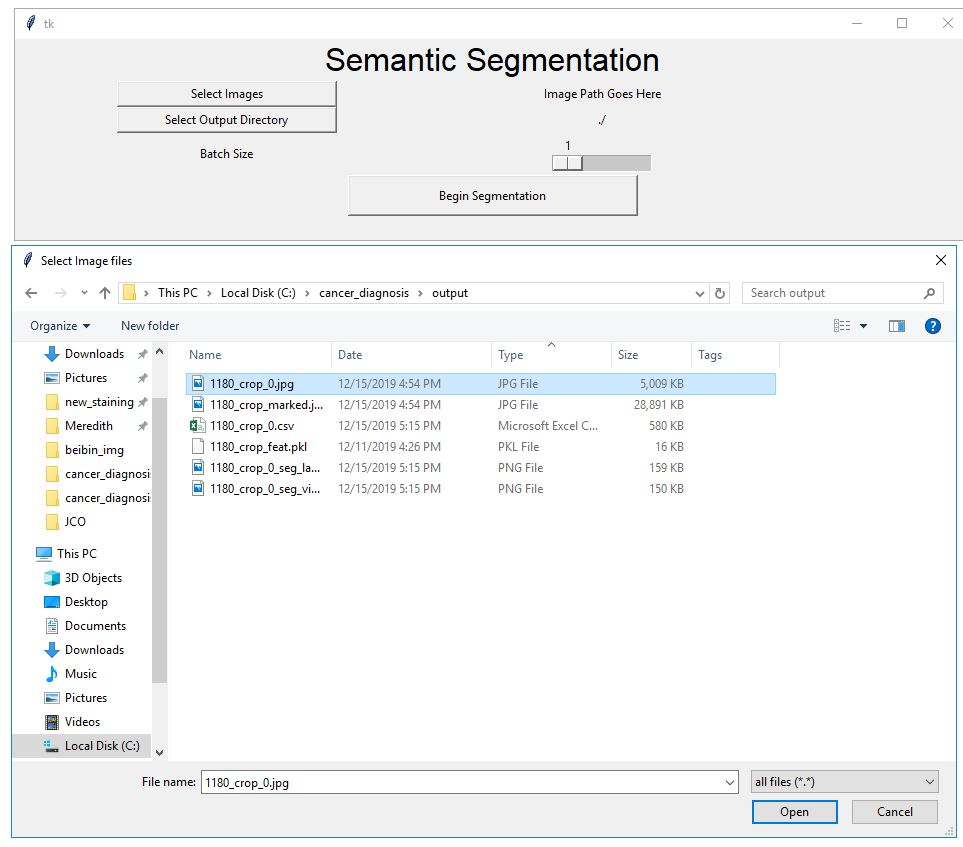
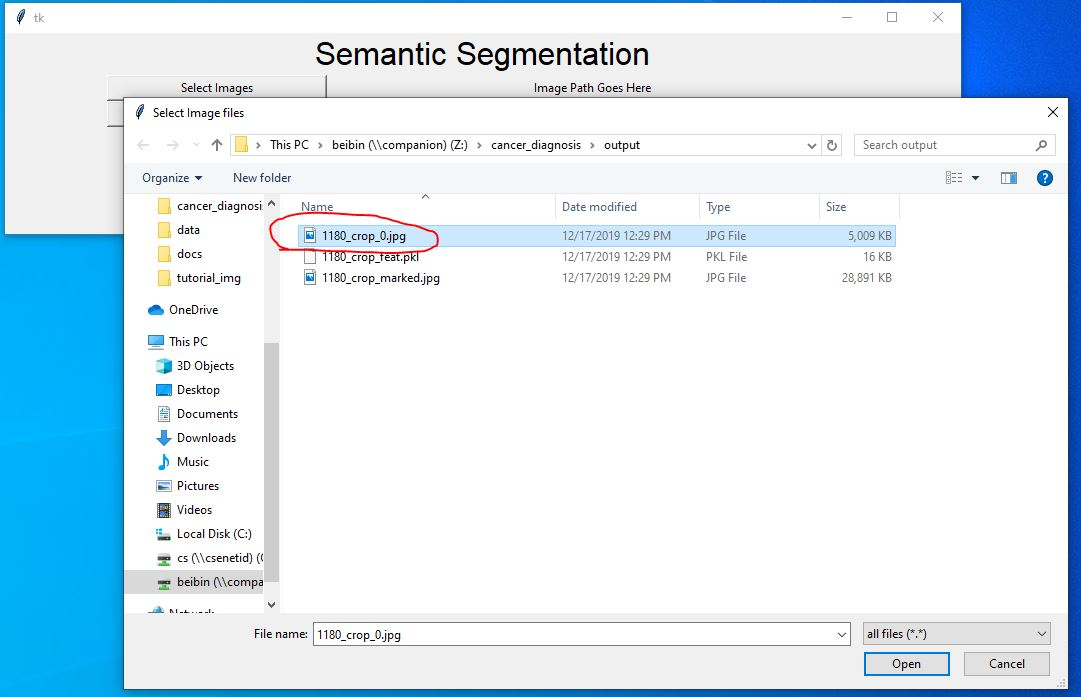
grammar and screenshot updates for tutorial

diff --git a/ROISegmentation.py b/ROISegmentation.py
@@ -82,7 +82,7 @@ out_path_button = tk.Button(window, text="Select Output Directory",
 out_path_button.grid(row=3, column=0)
 
 out_path_var = tk.StringVar()
-out_path_var.set("./")
+out_path_var.set("output/")
 out_path_label = tk.Label(window, textvariable=out_path_var)
 out_path_label.grid(row=3, column=1)
 

diff --git a/README.md b/README.md
@@ -74,7 +74,7 @@ Note, you should download and install this tool first before reading this tutori
 This is an example of how to use ROIWindowClassifier to detect diagnostically relevant regions of interest in breast biopsy whole slide images.  
 
 
-Double clicking on the `1_ROI.bat` file, as shown below.
+Double click the `1_ROI.bat` file, as shown below.
 
 <img src="docs/tutorial_img/roi_bat.JPG" style="zoom:70%;" />
 
@@ -121,7 +121,7 @@ The files are:
 After you have the resultant ROI image from Step 1, we can now move to ROI segmentations. The following figures illustrate how to use this tool to get segmentation for ROIs. The segmentation results will be used as features for diagnosis prediction. 
 
 
-Double clicking on the `2_Semantic_Segmentation.bat` file, as shown below.
+Double click the `2_Semantic_Segmentation.bat` file, as shown below.
 
 
 <img src="docs/tutorial_img/seg_bat.JPG" style="zoom:70%;" />
@@ -133,6 +133,8 @@ Then you will see the following interface where you can select the model, ROI im
 <br><br>
 
 You should choose one or more ROI images at a time as shown below. Hold the "Control" key if you want to select multiple files, which is the standard multi-file selection in Windows OS. 
+In this example, you can select the "1180_crop_0.jpg" image.
+
 Similarly, you can choose the desired output folder by clicking the "Select Output Directory" button and choose a folder.
 
 <img src="docs/tutorial_img/ynet_page2.JPG" width="70%" align="middle"/>
@@ -197,7 +199,7 @@ The ROI finder (in Step 1 above) usually selects more than one ROI for each subj
 
 
 
-Double clicking on the `3_Diagnosis.bat` file, as shown below.
+Double click the `3_Diagnosis.bat` file, as shown below.
 <img src="docs/tutorial_img/dx_bat.JPG" style="zoom:70%;" />
 
 

diff --git a/docs/tutorial.md b/docs/tutorial.md
@@ -7,7 +7,7 @@ Note, you should download and install this tool first before reading this tutori
 This is an example of how to use ROIWindowClassifier to detect diagnostically relevant regions of interest in breast biopsy whole slide images.  
 
 
-Double clicking on the `1_ROI.bat` file, as shown below.
+Double click the `1_ROI.bat` file, as shown below.
 
 <img src="tutorial_img/roi_bat.JPG" style="zoom:70%;" />
 
@@ -54,7 +54,7 @@ The files are:
 After you have the resultant ROI image from Step 1, we can now move to ROI segmentations. The following figures illustrate how to use this tool to get segmentation for ROIs. The segmentation results will be used as features for diagnosis prediction. 
 
 
-Double clicking on the `2_Semantic_Segmentation.bat` file, as shown below.
+Double click the `2_Semantic_Segmentation.bat` file, as shown below.
 
 
 <img src="tutorial_img/seg_bat.JPG" style="zoom:70%;" />
@@ -66,6 +66,8 @@ Then you will see the following interface where you can select the model, ROI im
 <br><br>
 
 You should choose one or more ROI images at a time as shown below. Hold the "Control" key if you want to select multiple files, which is the standard multi-file selection in Windows OS. 
+In this example, you can select the "1180_crop_0.jpg" image.
+
 Similarly, you can choose the desired output folder by clicking the "Select Output Directory" button and choose a folder.
 
 <img src="tutorial_img/ynet_page2.JPG" width="70%" align="middle"/>
@@ -130,7 +132,7 @@ The ROI finder (in Step 1 above) usually selects more than one ROI for each subj
 
 
 
-Double clicking on the `3_Diagnosis.bat` file, as shown below.
+Double click the `3_Diagnosis.bat` file, as shown below.
 <img src="tutorial_img/dx_bat.JPG" style="zoom:70%;" />
 
 
